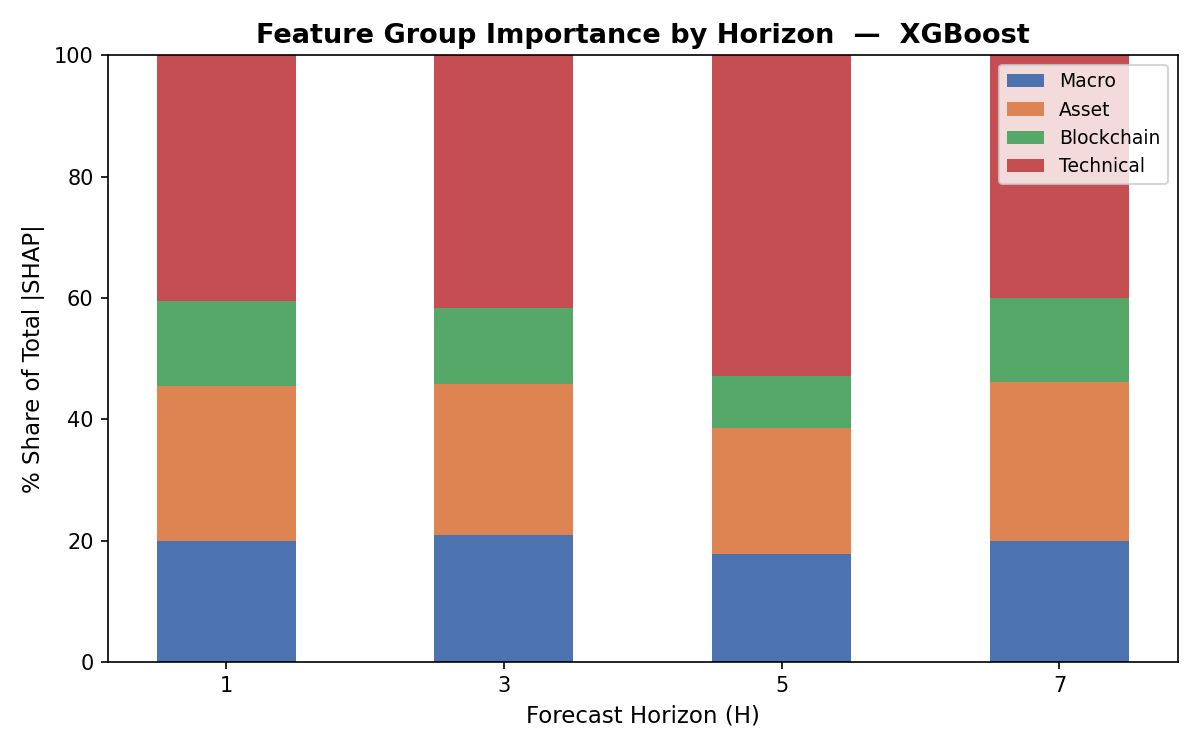
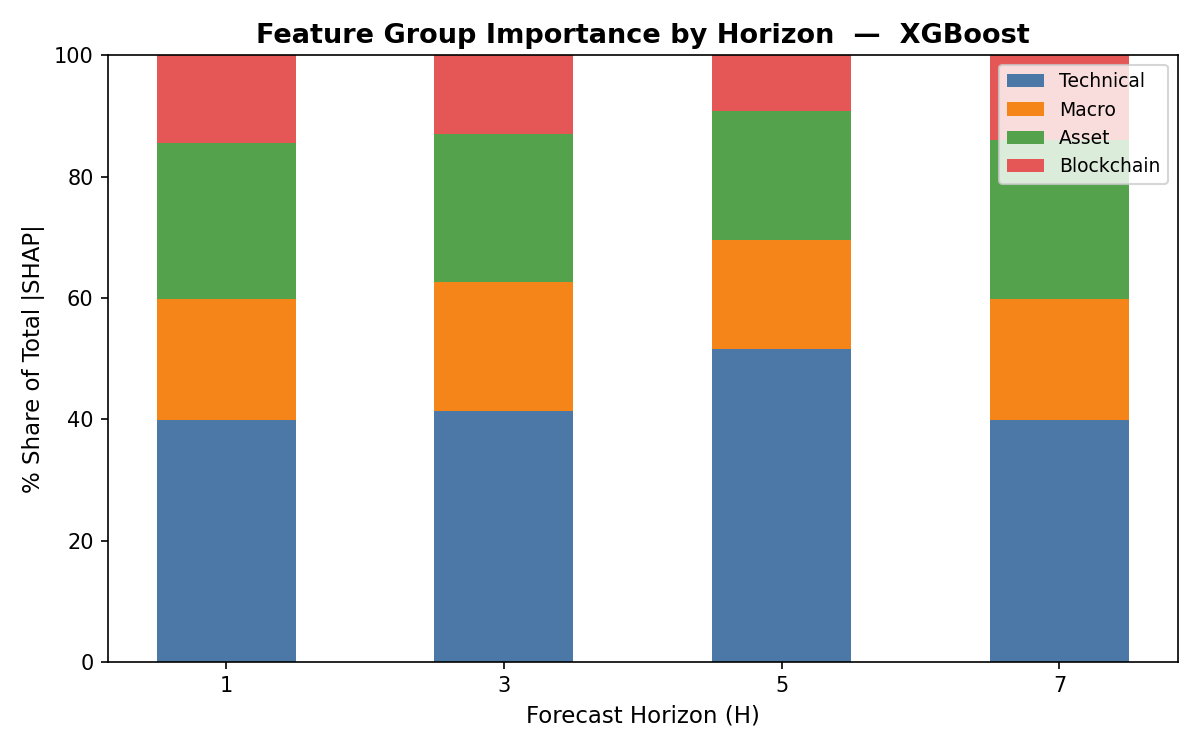
Small updates to xgb shap analysis to standardise outputs (same as SVR pfi analysis)

diff --git a/model feature importance/xgb_shap_analysis.py b/model feature importance/xgb_shap_analysis.py
@@ -11,7 +11,7 @@ import matplotlib.ticker as mticker
 # -----------------------------------------------------------------------
 FULL_DATA_PATH  = "../data/full_df.csv"
 XGB_PARAM_PATH  = "../models/xgb_tuned_hyperparams.csv"
-OUT_DIR         = "../shap_outputs/xgb_shap_analysis"   # all outputs go here
+OUT_DIR         = "../model feature importance/xgb_shap_outputs"   # all outputs go here
 
 DATE_COL        = "date"
 TARGET_COLS     = ["y_h1", "y_h3", "y_h5", "y_h7"]
@@ -24,8 +24,8 @@ EVAL_START_DATE = pd.to_datetime("2024-06-29")
 # We refit every 7 days during rolling eval — here we sample every N_SHAP_STEP
 # refit points to keep compute tractable while still capturing how feature
 # importance evolves over the OOS period.
-N_SHAP_STEP = 5   # every 5th refit ≈ every 35 days → ~16 windows across OOS period
-SEED        = 0
+N_SHAP_STEP = 1   # every 1st refit ≈ every 7 days → ~156 windows across OOS period
+SEED        = 42
 
 # -----------------------------------------------------------------------
 # Feature group mapping
@@ -84,11 +84,11 @@ FEATURE_GROUPS = {
 }
 
 GROUP_COLORS = {
-    "Macro"      : "#4C72B0",
-    "Asset"      : "#DD8452",
-    "Blockchain" : "#55A868",
-    "Technical"  : "#C44E52",
-    "Sentiment"  : "#8172B2",
+    "Technical"  : "#4C78A8",
+    "Macro"      : "#F58518",
+    "Asset"      : "#54A24B",
+    "Blockchain" : "#E45756",
+    "Sentiment"  : "#B279A2",
 }
 
 
